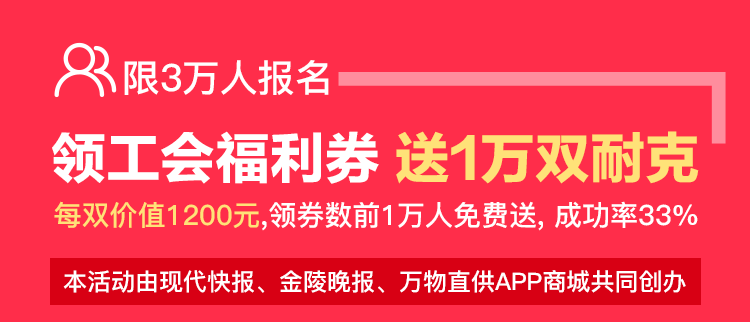
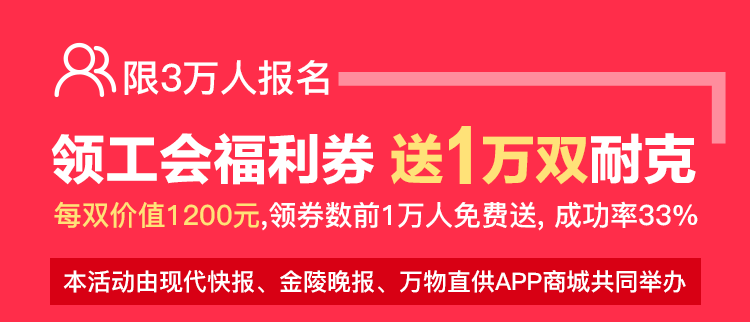
update 耐克活动

Changed region(s): [[0.0613, 0.3727, 0.9507, 0.5901], [0.828, 0.8385, 0.8893, 0.9317]]

diff --git a/src/views/common/src/marketing/src/movies.vue b/src/views/common/src/marketing/src/movies.vue
@@ -2,6 +2,7 @@
   .wrap
     .bgWrapper
       img.bgImg(src="../../../../../assets/img/nike9.png")
+      img.bgImg2(src="")
     .name(v-show="showIndex===1", :style="{'animation-play-state': stateArr[0]}")
       img.nameImg(src="../../../../../assets/img/nike10.png")
     .name(v-show="showIndex===2", :style="{'animation-play-state': stateArr[1]}")
@@ -9,11 +10,11 @@
     .name(v-show="showIndex===3", :style="{'animation-play-state': stateArr[2]}")
       img.nameImg(src="../../../../../assets/img/nike12.png")
     .name(v-show="showIndex===4", :style="{'animation-play-state': stateArr[3]}")
-      img.nameImg(src="../../../../../assets/img/nike14.png")
+      img.nameImg(src="../../../../../assets/img/nike13.png")
     .name(v-show="showIndex===5", :style="{'animation-play-state': stateArr[4]}")
-      img.nameImg(src="../../../../../assets/img/nike15.png")
+      img.nameImg(src="../../../../../assets/img/nike14.png")
     .name(v-show="showIndex===6", :style="{'animation-play-state': stateArr[5]}")
-      img.nameImg(src="../../../../../assets/img/nike16.png")
+      img.nameImg(src="../../../../../assets/img/nike15.png")
     .timerWrapper
       .timer(v-if="s>0") {{s}}s
       .toNext(v-if="s<=0", @click="$router.push('/marketing/receiveTicket')") 跳过
@@ -61,8 +62,8 @@
       loadShare () {
         this.$initShare({
           sharePhoto: 'http://www.w5zg.cn/' + shareImg.substr(1),
-          shareTitle: '万双耐克，要否？',
-          shareDesc: '天降耐克，速来领取！！！还有超值现金券，先到先得！！！',
+          shareTitle: '震惊！5000元工会福利券和1万双耐克鞋等您领取',
+          shareDesc: '金陵晚报/现代快报/万物直供联合举办！300大品牌商共同补贴工会福利事业',
           link: ('http://www.w5zg.cn/#/marketing/index?redirect_url='+localStorage.getItem('redirect_url')).replace(/\?*#/, "?#")
         })
       },

diff --git a/src/views/common/src/marketing/src/index.vue b/src/views/common/src/marketing/src/index.vue
@@ -19,15 +19,18 @@
           .titleBtn 活动安排
           .info
             .left 1)
-            .right 本活动共送出1万双耐克鞋，限3万人报名，按领券数量排名，前1万人立得1双价值1200元耐克鞋。
+            .right 本活动送1万双耐克鞋，限3万人报名，按领券数量排名，前1万人每人立得1双价值1200元耐克。
           .info
             .left 2)
-            .right 领鞋地址：现代快报大厦18楼、金陵晚报虎凤蝶旅行社。
+            .right 即日起开始报名；活动起始时间：7月3日-10日
           .info
             .left 3)
-            .right 领取时间：7月20日-7月27日，早9:00-晚18:00
-          .info.last
+            .right 领取时间：7月20日-7月27日，早9:00-18:00
+          .info
             .left 4)
+            .right 领鞋地址：现代快报大厦18楼、金陵晚报虎凤蝶发行部
+          .info.last
+            .left 5)
             .right 具体参与规则请关注“<span>万物直供商城</span>”公众号查看
         .closeBtn(@click.prevent="popShow=false", @touchmove.stop="")
           img.closeBtnImg(src="../../../../../assets/img/01_index_10_rules_close.png")
@@ -69,8 +72,8 @@
         console.log(shareImg.substr(1))
         this.$initShare({
           sharePhoto: 'http://www.w5zg.cn/' + shareImg.substr(1),
-          shareTitle: '万双耐克，要否？',
-          shareDesc: '天降耐克，速来领取！！！还有超值现金券，先到先得！！！',
+          shareTitle: '震惊！5000元工会福利券和1万双耐克鞋等您领取',
+          shareDesc: '金陵晚报/现代快报/万物直供联合举办！300大品牌商共同补贴工会福利事业',
           link: ('http://www.w5zg.cn/#/marketing/index?redirect_url='+localStorage.getItem('redirect_url')).replace(/\?*#/, "?#")
         })
       },

diff --git a/src/views/common/src/marketing/src/publicNum.vue b/src/views/common/src/marketing/src/publicNum.vue
@@ -52,8 +52,8 @@
         loadShare () {
           this.$initShare({
             sharePhoto: 'http://www.w5zg.cn/' + shareImg.substr(1),
-            shareTitle: '万双耐克，要否？',
-            shareDesc: '天降耐克，速来领取！！！还有超值现金券，先到先得！！！',
+            shareTitle: '震惊！5000元工会福利券和1万双耐克鞋等您领取',
+            shareDesc: '金陵晚报/现代快报/万物直供联合举办！300大品牌商共同补贴工会福利事业',
             link: ('http://www.w5zg.cn/#/marketing/index?redirect_url='+localStorage.getItem('redirect_url')).replace(/\?*#/, "?#")
           })
         }

diff --git a/src/views/common/src/marketing/src/receiveTicket.vue b/src/views/common/src/marketing/src/receiveTicket.vue
@@ -103,8 +103,8 @@
       loadShare () {
         this.$initShare({
           sharePhoto: 'http://www.w5zg.cn/' + shareImg.substr(1),
-          shareTitle: '万双耐克，要否？',
-          shareDesc: '天降耐克，速来领取！！！还有超值现金券，先到先得！！！',
+          shareTitle: '震惊！5000元工会福利券和1万双耐克鞋等您领取',
+          shareDesc: '金陵晚报/现代快报/万物直供联合举办！300大品牌商共同补贴工会福利事业',
           link: ('http://www.w5zg.cn/#/marketing/index?redirect_url='+localStorage.getItem('redirect_url')).replace(/\?*#/, "?#")
         })
       },

diff --git a/src/views/common/src/marketing/src/receiveTicketSuccess.vue b/src/views/common/src/marketing/src/receiveTicketSuccess.vue
@@ -57,8 +57,8 @@
       loadShare () {
         this.$initShare({
           sharePhoto: 'http://www.w5zg.cn/' + shareImg.substr(1),
-          shareTitle: '万双耐克，要否？',
-          shareDesc: '天降耐克，速来领取！！！还有超值现金券，先到先得！！！',
+          shareTitle: '震惊！5000元工会福利券和1万双耐克鞋等您领取',
+          shareDesc: '金陵晚报/现代快报/万物直供联合举办！300大品牌商共同补贴工会福利事业',
           link: ('http://www.w5zg.cn/#/marketing/index?redirect_url='+localStorage.getItem('redirect_url')).replace(/\?*#/, "?#")
         })
       },
